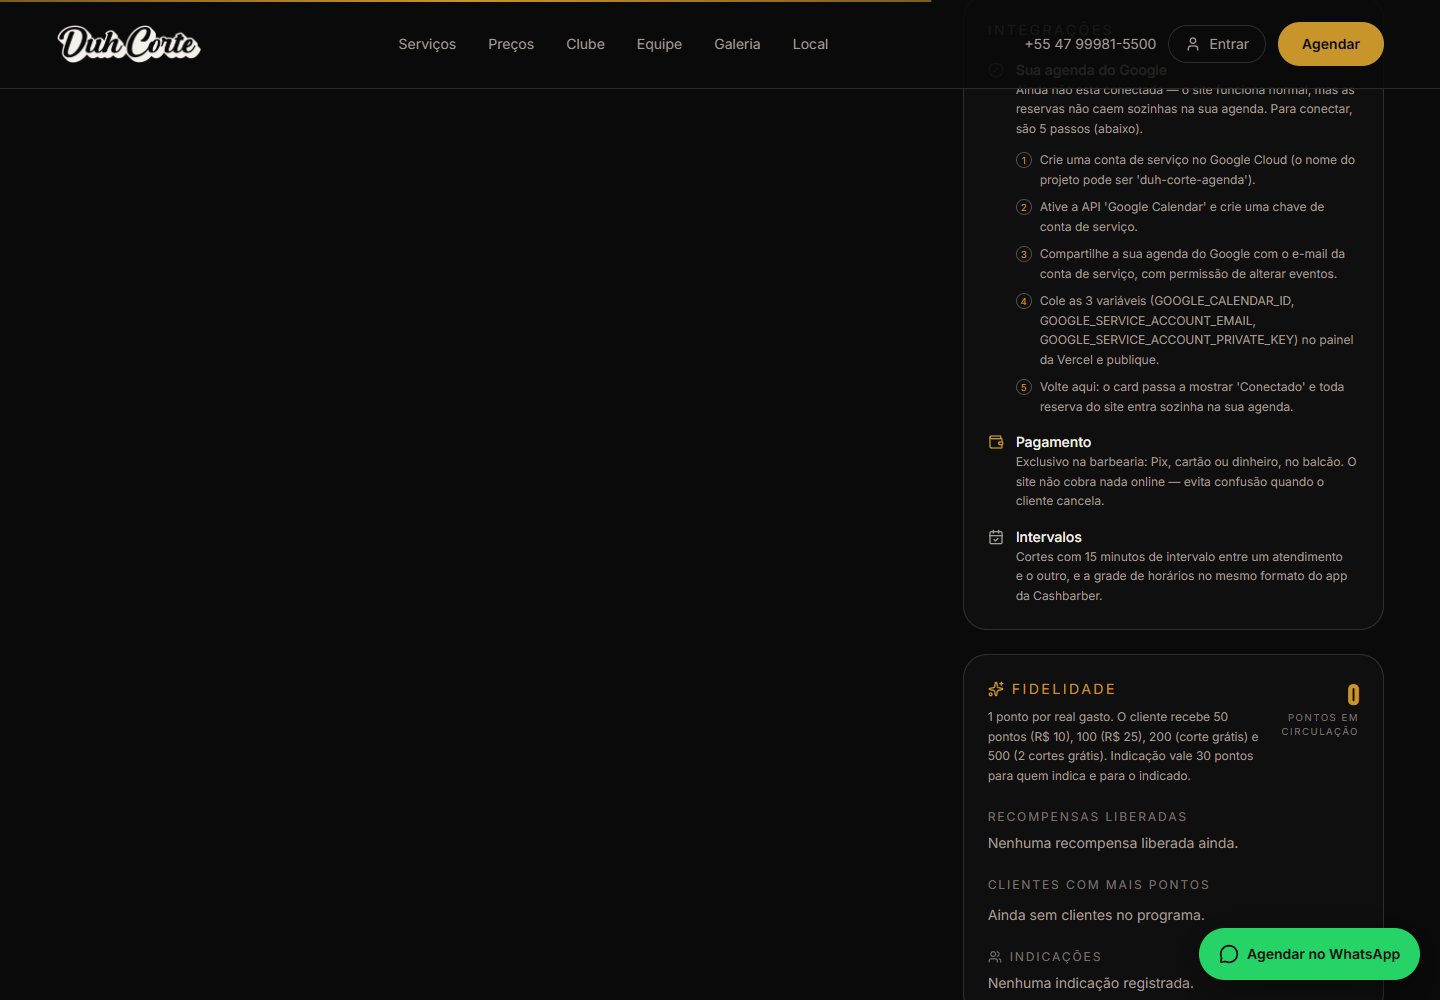
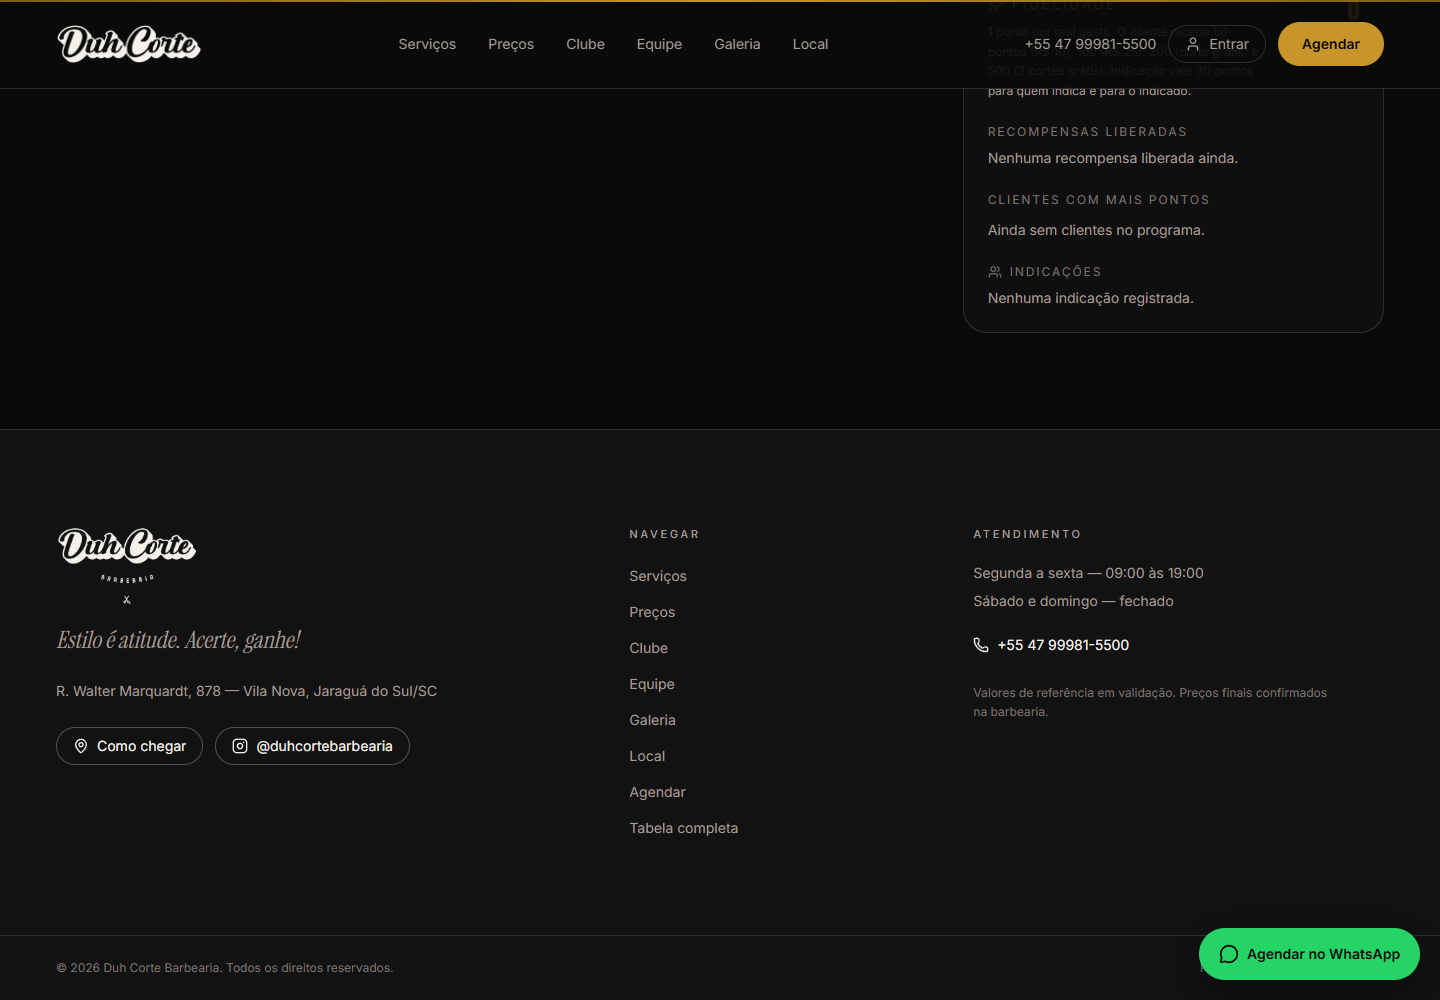
docs: cola de configuracao do login social + scripts de aplicacao e teste

diff --git a/entregaveis/CONA-LOGIN-SOCIAL.md b/entregaveis/CONA-LOGIN-SOCIAL.md
@@ -1,0 +1,72 @@
+# Cola: liberar os botões de login (Google / Apple / Facebook)
+
+O código já está pronto e testado. Falta só criar as chaves nos consoles e me passar os dois códigos de cada provedor (ID e Senha). Aí eu publico em 1 minuto e o botão aparece em `/entrar`.
+
+**Redirect URIs (copie exatamente these 3 linhas em cada console):**
+
+```
+https://duh-corte.vercel.app/api/auth/callback/google
+https://duhcutebarbearia.com.br/api/auth/callback/google
+http://localhost:3000/api/auth/callback/google
+```
+
+(troque `google` por `facebook` ou `apple` conforme o provedor; no Facebook é `/api/auth/callback/facebook`, na Apple `/api/auth/callback/apple`)
+
+---
+
+## 1) Google (15 minutos — comece por este)
+
+1. <https://console.cloud.google.com/apis/credentials> → **crie um projeto** (canto superior: *Selecionar projeto* → *Novo projeto*, nome `duh-corte-login`).
+2. No menu lateral: **APIs e serviços → Tela de consentimento OAuth**:
+   - *User Type*: **External** → *Iniciar*;
+   - Preencha: *App name* = `Duh Corte Barbearia`; *User support email* = seu e-mail; *Developer contact* = seu e-mail;
+   - **Adicione um usuário de teste** (o seu e-mail) — em modo de teste, só ele consegue entrar;
+   - Em *Data Access* → *Add or remove scopes* → marque:
+     - `.../auth/userinfo.email`
+     - `.../auth/userinfo.profile`
+3. **Credentials → Create Credentials → OAuth client ID → Web application**:
+   - *Name*: `Duh Corte Barbearia`
+   - *Authorized redirect URIs*: cole as 3 linhas acima;
+   - Clique em **Create** → aparecem **Client ID** e **Client secret**.
+4. Me mande: `ID` e `secret`.
+
+## 2) Facebook / Meta (10 minutos)
+
+1. <https://developers.facebook.com/apps> → **Create App** → tipo **Consumer** (ou Business) → *Use cases* → **Other** → *Business apps* → *Create*.
+2. Add product **Facebook Login** → *Settings* (login com Facebook):
+   - *Valid OAuth Redirect URIs*: cole as 3 linhas (com `/facebook` no final);
+   - *Client OAuth Login* → *Web* → marque *Client OAuth Login* e *Web OAuth Login*.
+3. Em *App settings → Basic*: copie **App ID** e **App secret** (em *Show*).
+4. Me mande: `ID` e `secret`.
+
+## 3) Apple (só se quiser — exige conta paga)
+
+1. <https://developer.apple.com/programs/> → assine o **Apple Developer Program** (US$ 99/ano).
+2. *Certificates, Identifiers & Profiles* → **Identifiers → Services IDs** → *Enable Sign in with Apple* → crie `com.duhcutebarbearia.app`.
+3. Volte ao **App ID** do site (você precisa de um app iOS/macOS) e ative **Sign in with Apple**; cadastre o domínio e o Service ID.
+4. Crie uma **chave .p8** (*Keys*) e gere o segredo JWT (client secret) — o formato é `APPID.APPID.SECRET` com o certificado em ECDSA P-256.
+5. Me mande: `Service ID` e o `client secret`.
+
+---
+
+## Como me passar as chaves
+
+Escreva no chat, por exemplo:
+
+```
+google ID=123456-abc.apps.googleusercontent.com SECRET=GOCSPX-xxxx
+facebook ID=1234567890 SECRET=abcdef123456
+```
+
+Aí eu rodo: `node scripts/configurar-login.mjs --google=ID:SECRET` — ele grava as variáveis na Vercel, publica e eu testo o botão com `node scripts/qa-login.mjs`.
+
+---
+
+## O que acontece depois de liberado
+
+- O botão **"Entrar com Google"** aparece em `https://duh-corte.vercel.app/entrar`.
+- O cliente entra, vê os horários, os pontos e o código de indicação em `/minha-conta`.
+- **O admin entra pelo mesmo botão**: se o seu e-mail estiver em `ADMIN_EMAILS`, aparece o botão "Ir para o painel da barbearia".
+- A senha continua funcionando como segunda porta (login do `/admin`).
+
+**Dica:** comece pelo Google — é o mais rápido e resolve 95% dos casos. Apple e Facebook podem ficar para depois; sem eles, o botão simplesmente não aparece (o site não quebra).
